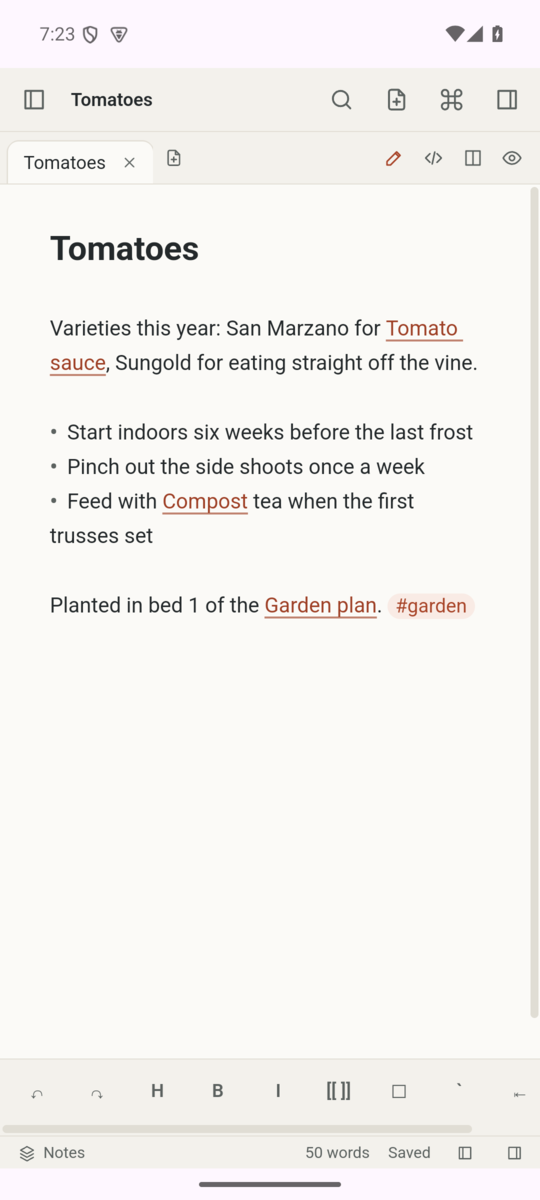
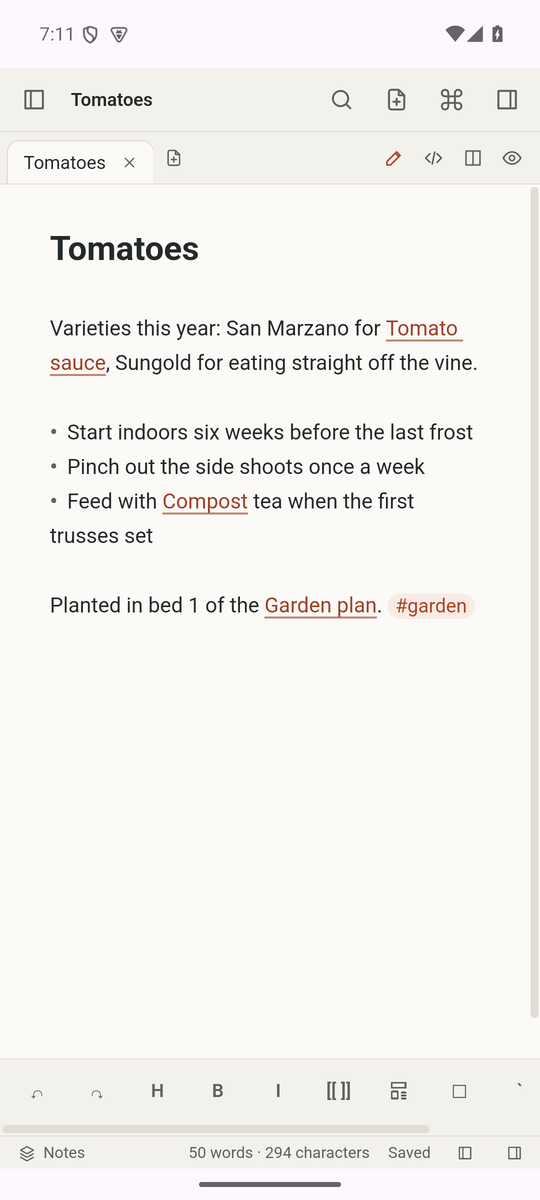
Take the screenshots from a demo notebook with scripts
The screenshots in docs/images are new and show the current app: the
word and character count, the Theme list and the Daily notes button.
They come from a made-up notebook about a garden and a kitchen, in
scripts/demo-notebook.mjs, so no real notes are in them.

scripts/site-screenshots.mjs takes the desktop ones on the headless
display: the editor in Limestone and in Slate, search, the graph with
one note's links highlighted, and Settings, then Appearance, with the
Theme list. scripts/site-screenshots-android.mjs takes a note and the
Files drawer on an emulator with the debug APK. Each script's header
says how to run it.

The manual's pages now show the screenshots where they help: getting
started, search and graph, themes and appearance, and Android.

diff --git a/docs/manual/android.md b/docs/manual/android.md
@@ -2,6 +2,8 @@
 
 The Android app is built from the same code as the desktop app, with a touch layout and a formatting toolbar. It has no zoom keys and cannot open files in other apps yet, images included.
 
+![A note on Android, with the formatting toolbar](../images/android-editor.png)
+
 ## Install
 
 The APK on the [releases page](https://github.com/lucas-pospor/cairn/releases), `cairn-<version>-universal.apk`, is for Android 7.0 or later, on arm64, armv7, x86 and x86_64 devices. Every version is signed with the same key, so a new APK installs over an older one as an update and keeps the app's data, its notebooks and its sync setup.
@@ -11,6 +13,8 @@ The signing certificate has the SHA-256 fingerprint `1D:10:FE:DC:B9:A2:55:63:DA:
 ## Notebooks on a phone
 
 "Create a notebook on this device" keeps the notebook in the app's private storage. "Open a folder from storage" uses the system folder picker (Storage Access Framework), so you can share the folder with other apps. Opening a folder this way needs no storage permission. Sync works as on the desktop, except for the names a shared folder cannot hold ([below](#shared-folders)).
+
+![The Files drawer on Android, with the folders of a notebook](../images/android-files.png)
 
 ## Sync on the local network
 

diff --git a/README.md b/README.md
@@ -12,14 +12,14 @@ The manual, in [docs/manual](docs/manual/README.md), describes how to use Cairn,
 
 ![Cairn on Linux: a note in Live Preview, with the file tree on the left and the note's backlinks on the right](docs/images/editor.png)
 
-| Graph view (dark theme) | Full-text search |
+| Graph view (Slate theme) | Full-text search |
 |:---:|:---:|
-| ![The graph view in the dark theme, with one note and its links highlighted](docs/images/graph.png) | ![Search results for "tomato" next to the open note](docs/images/search.png) |
+| ![The graph view in the Slate theme, with one note and its links highlighted](docs/images/graph.png) | ![Search results for "tomato" next to the open note](docs/images/search.png) |
 
 <p align="center">
   <img src="docs/images/android-editor.png" width="270" alt="A note on Android, with the formatting toolbar">
   &nbsp;&nbsp;
-  <img src="docs/images/android-files.png" width="270" alt="The file tree on Android">
+  <img src="docs/images/android-files.png" width="270" alt="The Files drawer on Android">
 </p>
 
 ## Manual

diff --git a/docs/manual/getting-started.md b/docs/manual/getting-started.md
@@ -2,6 +2,8 @@
 
 Cairn is a local-first Markdown notes app. A notebook is an ordinary folder of `.md` files: Cairn reads and writes those files directly, so you can open the same folder in any other editor, put it under Git, or back it up however you like. The search index and link graph live in memory, and Cairn rebuilds them from the files.
 
+![Cairn on Linux: a note in Live Preview, with the file tree on the left and the note's backlinks on the right](../images/editor.png)
+
 ## Install
 
 Prebuilt Linux packages, a Windows installer, the Android APK and the sync server's Docker image are on the [releases page](https://github.com/lucas-pospor/cairn/releases). [Windows](windows.md) describes the installer and [Android](android.md) the APK. There is no macOS build. To build Cairn yourself, see [Building from source](building.md).

diff --git a/docs/manual/themes-and-appearance.md b/docs/manual/themes-and-appearance.md
@@ -13,6 +13,8 @@ Cairn has three light themes and three dark themes:
 
 Under Settings, then Appearance, the Theme list holds System and every theme: pick a theme to use it always, or System to follow the system's light or dark mode with the light and dark theme picked under it.
 
+![Settings, then Appearance: the Theme list set to System, with Limestone as the light theme and Slate as the dark theme](../images/appearance.png)
+
 The high-contrast themes keep all text at 7:1 or more (WCAG AAA), except on disabled buttons and a file tree row while it is dragged, and add a ring or bar in the accent color to selected rows, pressed panel buttons and focused controls, so these do not show by a tint alone.
 
 Older versions show Limestone or Slate in a notebook set to a theme they do not have, and keep the choice.

diff --git a/docs/manual/search-and-graph.md b/docs/manual/search-and-graph.md
@@ -12,7 +12,10 @@ Ctrl+P opens the command palette, which finds a command by its name and shows it
 
 Ctrl+Shift+F opens full-text search. Narrow it with `tag:` and `path:` filters, and quote a value with spaces, as in `path:"My Folder"`. Images whose name or folder matches the words are listed under the notes; a query with a tag or a quoted phrase lists none.
 
+![Search results for "tomato" in the left sidebar, next to the open note](../images/search.png)
+
 ## Graph view
 
 Ctrl+G opens the graph view, which shows the notes and the links between them. It also works from the keyboard. Type a note's name in Find note in graph and press Enter to zoom to the note and highlight its links.
 
+![The graph view in the Slate theme, with the note Garden plan and its links highlighted](../images/graph.png)
